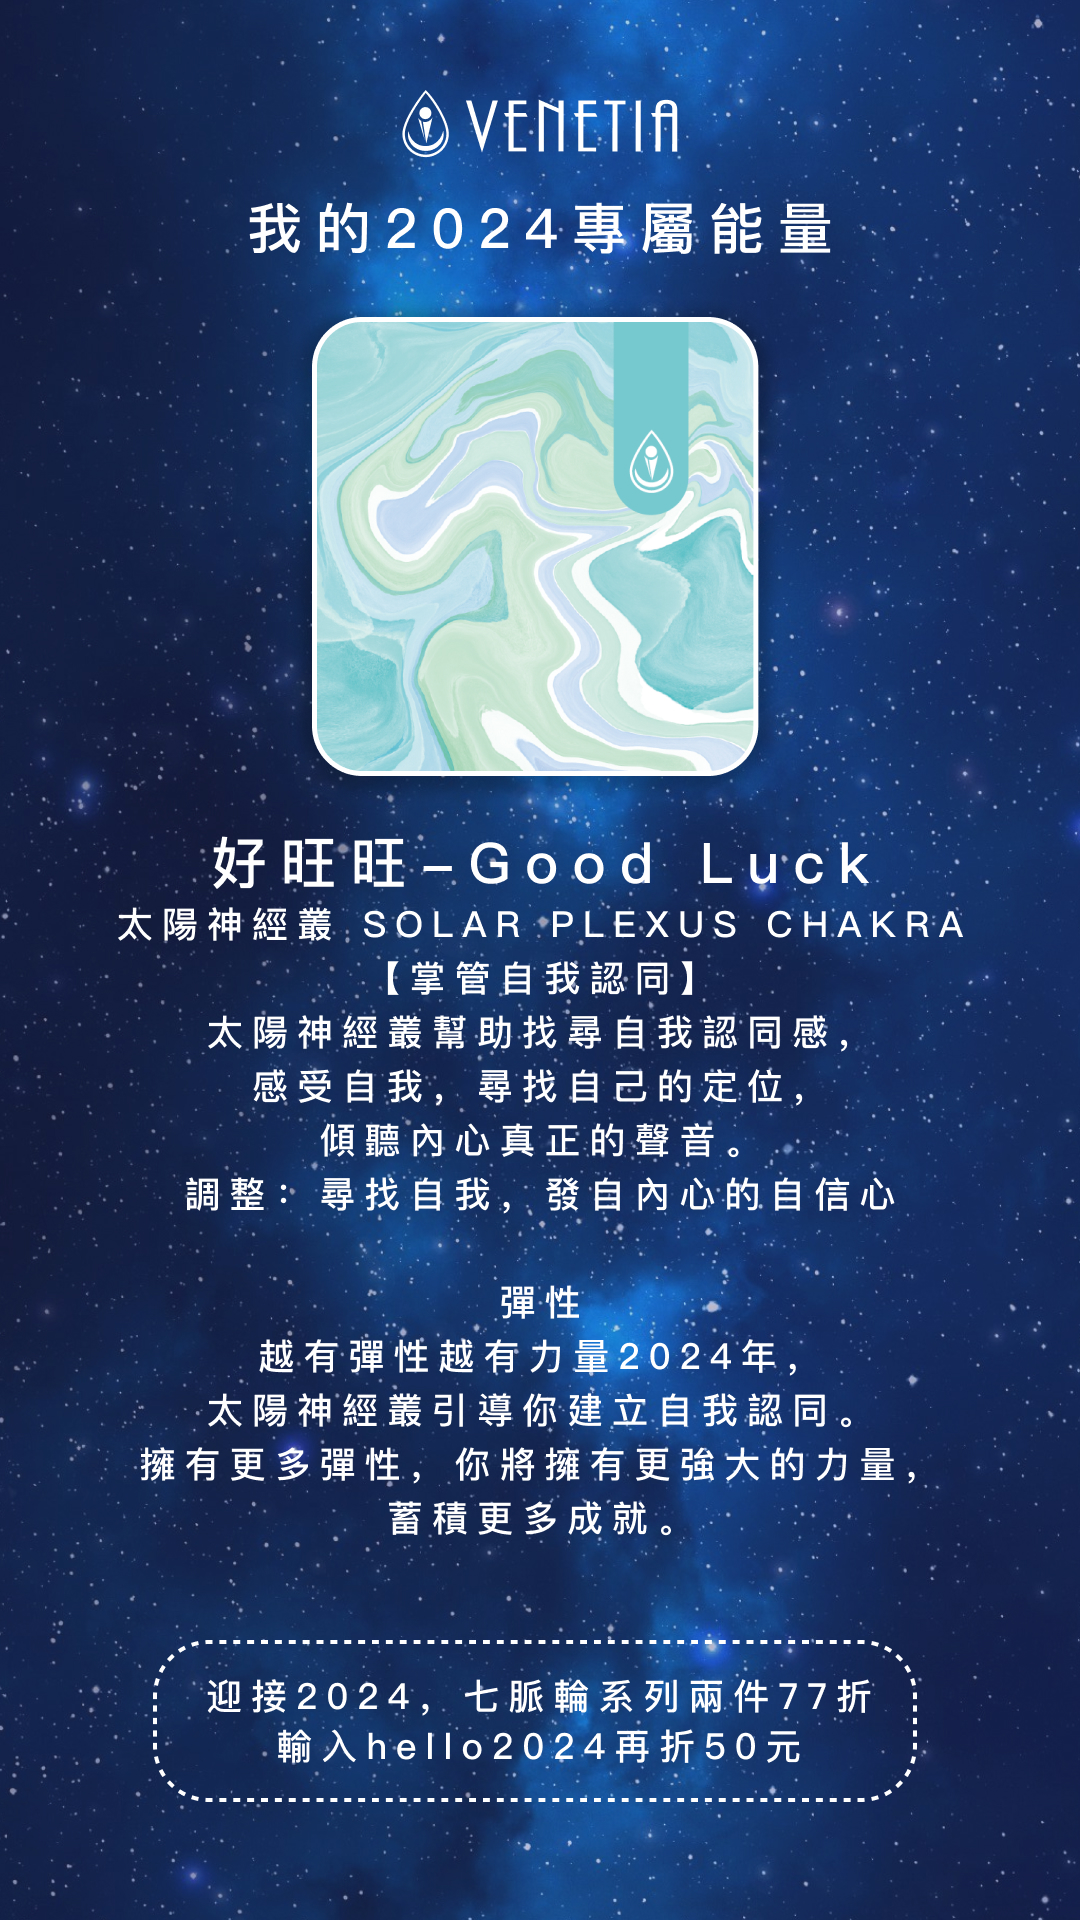
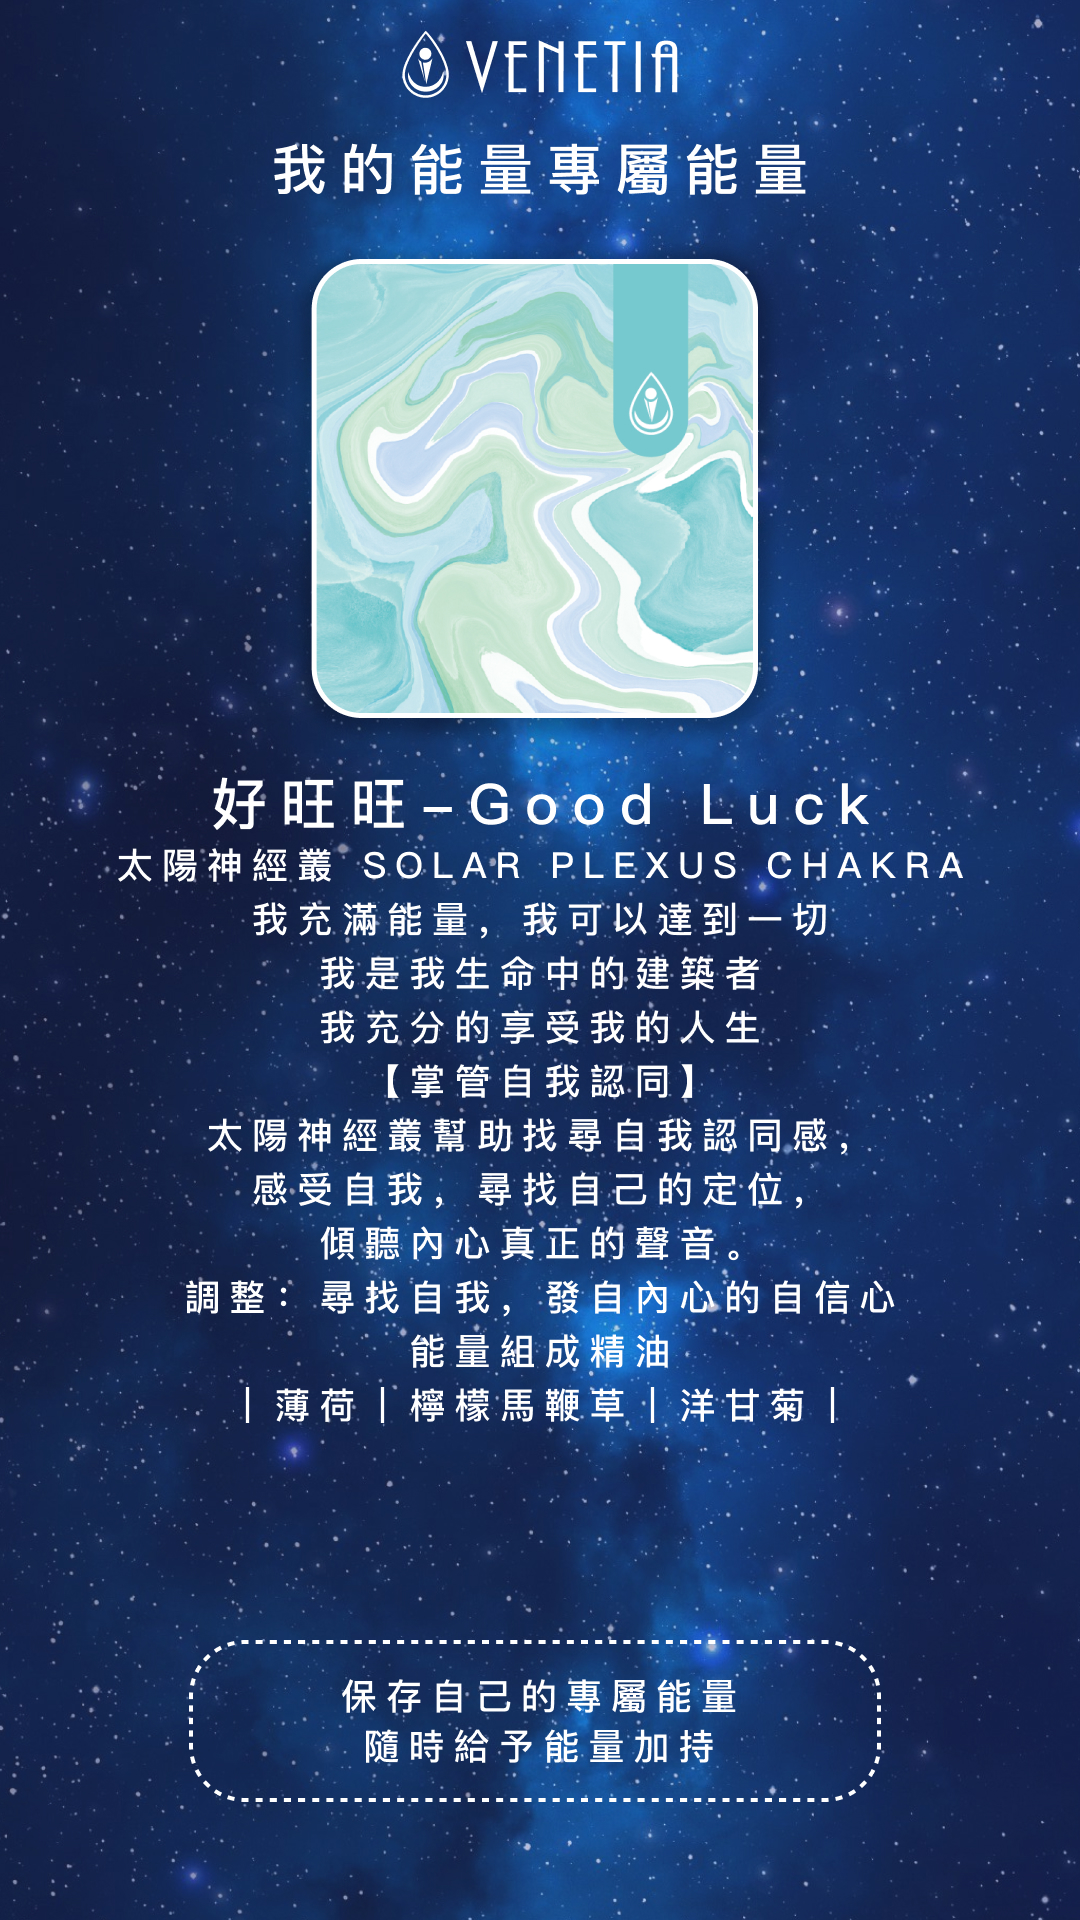
20240614 update
20240614 update

Changed region(s): [[0.1222, 0.0, 0.8861, 0.8125], [0.1833, 0.875, 0.825, 0.9375]]

diff --git a/reveal_card.html b/reveal_card.html
@@ -114,7 +114,7 @@
       {
         "cardTitle": "好暖活-Kindly Warm",
         "cardSubtitle": "海底輪 ROOT CHAKRA<br>#專注 #平靜",
-        "cardInfo": "【 - 豐盈 - 】<br>2024年是個豐盈的一年，以海底輪為中心<br>專注生存需求，建立堅實的基礎，迎接變化<br>維持身心平衡，過著充實的一年<br>調整：身體與心靈缺乏的安全感",
+        "cardInfo": "我所經歷的一切充滿幸福，我能達到一切<br>我捨棄所有狹隘的信念，我使我的內心神聖無畏<br>【掌管生存本能】<br>海底輪為最底輪，主導一切生存，保持最佳身心狀態與安全感</br>對於生命與生活充滿熱情與溫暖。<br>調整：身體與心靈缺乏的安全感",
         "cardOil": "｜檸檬馬鞭草、薄荷、佛手柑｜",
         "cardImage": "7.png",
         "link": "https://www.savunbio.com/products/kindlywarm",
@@ -123,7 +123,7 @@
       {
         "cardTitle": "好桃花-Fate of love",
         "cardSubtitle": "臍輪SACRAL CHAKRA<br>#自信魅力 #吸引力",
-        "cardInfo": "【 - 創造 - 】<br>肚臍輪的力量將啟發你在兩性和人際關係中<br>展現更豐富的創意，促進深層連結<br>2024成為愛與合作的年份<br>調整：和諧的情侶關係、提升人際關係",
+        "cardInfo": "我的體內平靜安穩，我選擇每天充滿快樂，我毫無畏懼情感關係<br>【掌管兩性與人際關係】<br>臍輪代表性的能力，為人性根本，代表慾望及人際關係，<br>掌握生活愉悅事物，並對人保持尊重與包容。<br>調整：和諧的情侶關係、提升人際關係",
         "cardOil": "｜薰衣草｜薄荷｜洋甘菊｜",
         "cardImage": "6.png",
         "link": "https://www.savunbio.com/products/fate-in-love",
@@ -132,7 +132,7 @@
       {
         "cardTitle": "好旺旺-Good Luck",
         "cardSubtitle": "太陽神經叢 SOLAR PLEXUS CHAKRA <br>#正能量 #運氣提升",
-        "cardInfo": "【 - 彈性 - 】<br>越有彈性越有力量的2024年<br>太陽神經叢引導你建立自我認同。擁有更多彈性<br>你將擁有更強大的力量，蓄積更多成就<br>調整：尋找自我，發自內心的自信心",
+        "cardInfo": "我充滿能量，我可以達到一切，我是我生命中的建築者<br>我充分的享受我的人生<br>【掌管自我認同】<br>太陽神經叢幫助找尋自我認同感，感受自我，尋找自己的定位，傾聽內心真正的聲音。<br>調整：尋找自我，發自內心的自信心",
         "cardOil": "｜薄荷｜檸檬馬鞭草｜洋甘菊｜",
         "cardImage": "4.png",
         "link": "https://www.savunbio.com/products/good-luck",
@@ -141,7 +141,7 @@
       {
         "cardTitle": "好心情-Good Mood",
         "cardSubtitle": "心輪 HEART CHAKRA <br>#安全感",
-        "cardInfo": "【 - 仁愛 - 】<br>心輪主宰愛與安全感，2024年的仁愛之力提醒你<br>先愛自己，再愛他人<br>這將成為建立深厚關係和燃起內在安定感的關鍵<br>調整：以理性視野看待一切",
+        "cardInfo": "我愛且接受自己，我的心是敞開的<br>我是平靜的，我相信自我也相信這一切<br>【掌管愛與安全感】<br>心輪是內在與外在連結的脈輪，如潔淨美麗的蓮花，出淤泥而不染<br>調整：以理性視野看待一切",
         "cardOil": "｜檸檬馬鞭草｜薄荷｜佛手柑｜",
         "cardImage": "2.png",
         "link": "https://www.savunbio.com/products/good-mood",
@@ -150,7 +150,7 @@
       {
         "cardTitle": "好自然-Step in Nature",
         "cardSubtitle": "喉輪THROAT CHAKRA<br>#回歸自我 #調整身心",
-        "cardInfo": "【 - 驕傲 - 】<br>2024年盡情感受每個驕傲的時刻，並善用溝通技巧展現自信<br>透過自尊心的提升，你將更有效地表達<br>贏得信任並建立深厚人際關係<br>調整：提升自己的溝通與內省，展現人際關係的自在與自信",
+        "cardInfo": "我為自己發聲，我的聲音純淨有力量<br>創造力在我的體內流動，我是自己的導引<br>【掌管溝通能力】<br>喉輪幫助我們認清自我，並向外人表達真誠情感。<br>調整：提升自己的溝通與內省，展現人際關係的自在與自信",
         "cardOil": "｜薄荷｜花梨木｜檸檬馬鞭草｜",
         "cardImage": "3.png",
         "link": "https://www.savunbio.com/products/step-in-nature",
@@ -159,7 +159,7 @@
       {
         "cardTitle": "好慵懶-Lazy Cozy",
         "cardSubtitle": "眉心輪THIRD-EYE CHAKRA<br>#溝通 #思路清晰",
-        "cardInfo": "【 - 直覺 - 】<br>眉心輪啟示著直覺的力量<br>2024年堅信自己的初衷<br>跟著直覺走，開啟更清晰、明確的人生方向<br>調整：心平靜和，放鬆，思慮清晰",
+        "cardInfo": "我從最高的自我中獲得指引，我活在此時此刻<br>我尋求的一切就在我的內心<br>我展望著美好正向的未來<br【掌管思考能力】<br>位於兩眉之間的眉輪，像似第三隻眼，幫助我們平靜判斷事物。</br>調整：心平靜和，放鬆，思慮清晰",
         "cardOil": "｜花梨木｜佛手柑｜洋甘菊｜",
         "cardImage": "5.png",
         "link": "https://www.savunbio.com/products/lazy-cozy",
@@ -168,7 +168,7 @@
       {
         "cardTitle": "好好睡-Relaxing & Release",
         "cardSubtitle": "頂輪CROWN CHAKRA<br>#舒壓解悶 #助眠",
-        "cardInfo": "【 - 勇氣 - 】<br>2024年頂輪賦予你無窮勇氣<br>引領你蛻變成更高層次的自己，啟動靈性之旅<br>調整：平靜內在，自我對話，",
+        "cardInfo": "我深根在這，我屬於這裡，放下一切懷疑與擔憂，我擁有一切我需要的。<br>【掌管靈性、人體能量的中心】<br>專注自我，靜夜中自我平靜對話，深夜中感受內心溫暖。<br>調整：平靜內在，自我對話，",
         "cardOil": "｜佛手柑｜薰衣草｜花梨木｜",
         "cardImage": "1.png",
         "link": "https://www.savunbio.com/products/relaxingrelease",

diff --git a/index.html b/index.html
@@ -52,8 +52,8 @@
         </div>
         <div class="title-section">
           <h1 class="title-text">凡娜緹雅</h1>
-          <h1 class="title-text">2024</h1>
-          <h1 class="title-text">新春七脈輪占卜</h1>
+          <h1 class="title-text">七脈輪</h1>
+          <h1 class="title-text">能量占卜</h1>
         </div>
         <a id="btn" href="choose_card.html">開 始 占 卜</a>
       </div>
